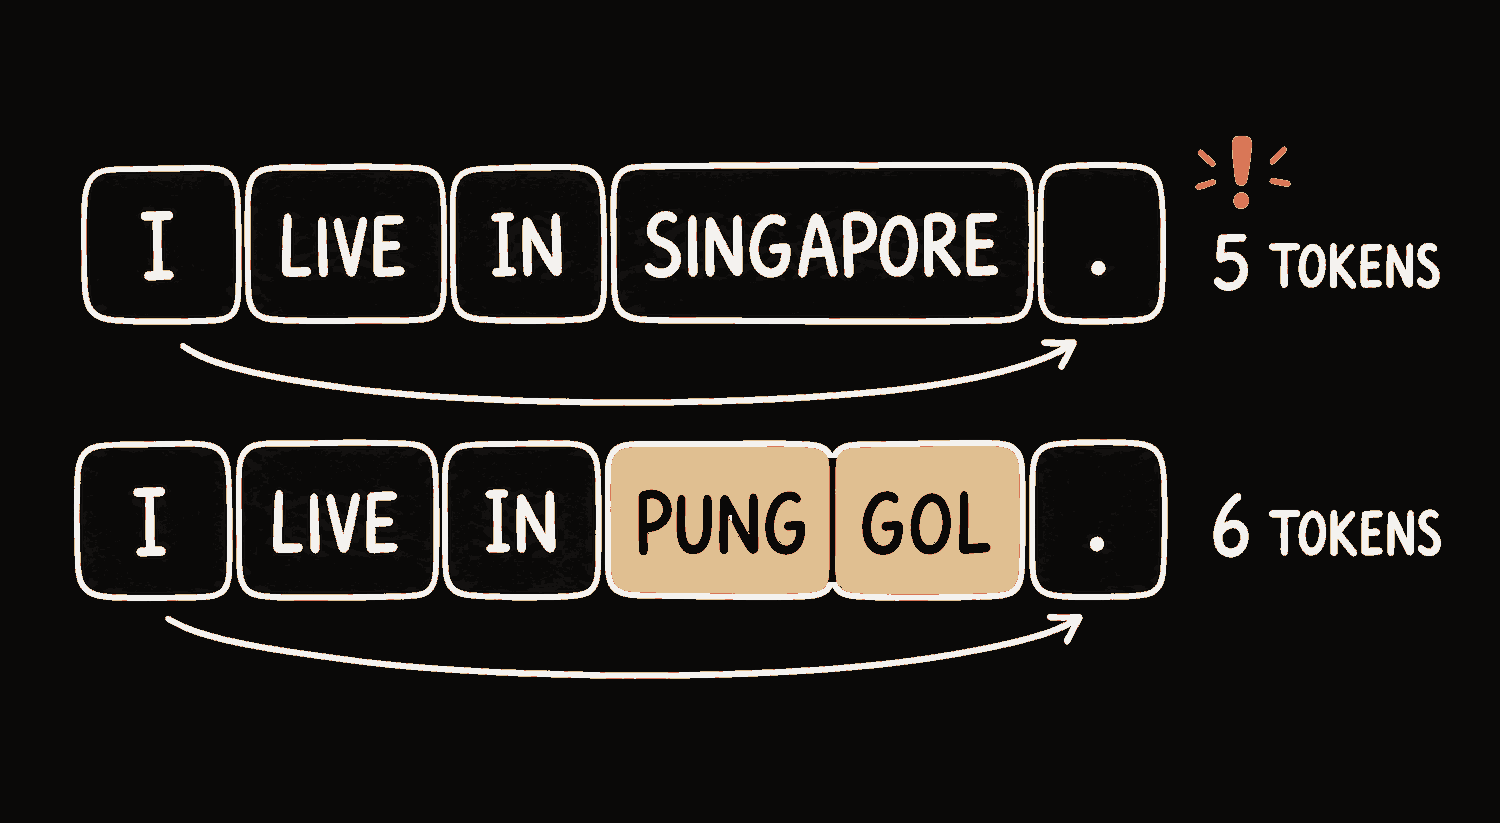
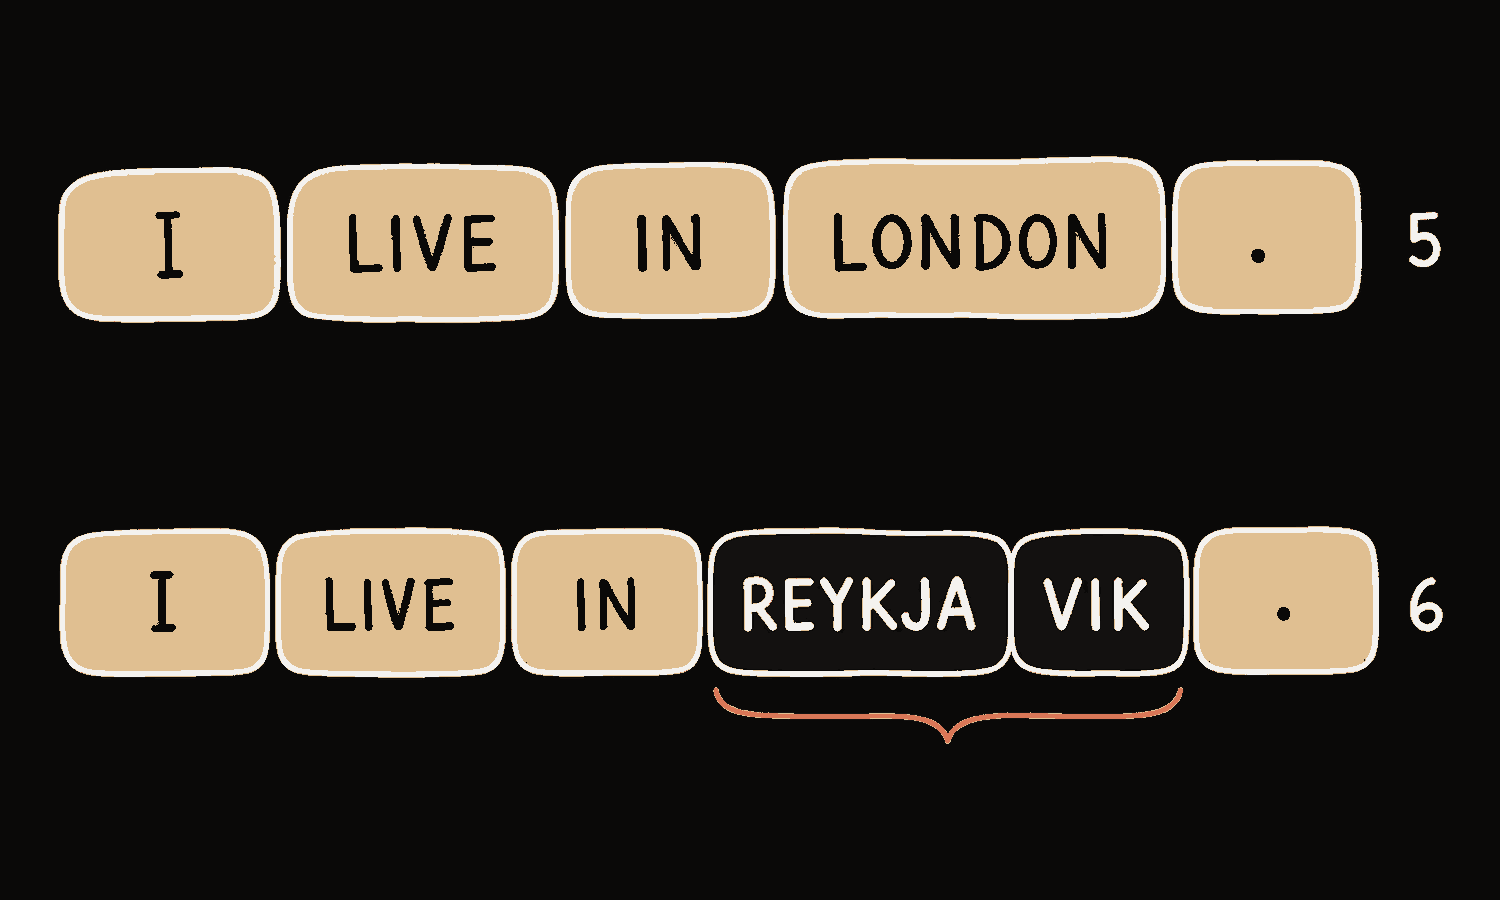
Take the last Singapore references out of the demo and the art
The course prose was delocalised in the previous commit, but three things
outside it still assumed a Singaporean reader. The context-window demo in
101.js ran a whole scripted conversation about urban farming in Singapore,
naming Citiponics, Ang Mo Kio and HDB estates; it now discusses rooftop farms
in dense cities, which teaches the same lesson about old turns falling out of
the window. The Higgsfield entry asked for a picture of a hawker centre; it
asks for a night market instead.

The token diagram was the only place where copy could not fix the problem,
because the words were drawn into the picture: it showed "I live in Singapore"
splitting into five chips against "Punggol" splitting into six. It is redrawn
for London and Reykjavik, which keeps the mechanism intact, since the point
needs one familiar word that survives whole and one rarer word that gets
chopped. Regenerated through the documented pipeline and recoloured for both
themes.

It shipped misshapen at 1500x702, a ratio of 2.14 against a set median of 1.67,
which made it the widest figure in the course and left it reading as a stubby
strip beside its neighbours. The bounding-box crop had taken the linen margin
the style asks for, so the margin is padded back in each theme's own ground
colour. Same drawing, correct proportions, and the declared height in the
markup now matches the file.

Changed region(s): [[0.0307, 0.1519, 0.9813, 0.8505], [0.184, 0.4557, 0.3373, 0.486], [0.1227, 0.4253, 0.184, 0.4557]]

diff --git a/tools/higgsfield-cli.html b/tools/higgsfield-cli.html
@@ -3,7 +3,7 @@
 <head>
   <meta charset="utf-8">
   <meta name="viewport" content="width=device-width, initial-scale=1">
-  <title>Higgsfield CLI — Makes images and videos from a line you type</title>
+  <title>Higgsfield CLI: Makes images and videos from a line you type</title>
   <meta name="description" content="Makes images and videos from a line you type. Describe the picture or the clip you want and it arrives as a file on your computer, with no website or…">
   <link rel="canonical" href="https://xaviertingai.com/tools/higgsfield-cli.html">
   <meta name="author" content="Xavier Ting">
@@ -13,7 +13,7 @@
   <meta property="article:author" content="https://xaviertingai.com/curator.html">
   <meta property="article:section" content="Design">
   <meta property="og:site_name" content="AI Resources">
-  <meta property="og:title" content="Higgsfield CLI — Makes images and videos from a line you type">
+  <meta property="og:title" content="Higgsfield CLI: Makes images and videos from a line you type">
   <meta property="og:description" content="Makes images and videos from a line you type. Describe the picture or the clip you want and it arrives as a file on your computer, with no website or…">
   <meta property="og:url" content="https://xaviertingai.com/tools/higgsfield-cli.html">
   <meta property="og:image" content="https://xaviertingai.com/og-image.png">
@@ -162,7 +162,7 @@
       "@type": "WebPage",
       "@id": "https://xaviertingai.com/tools/higgsfield-cli.html#page",
       "url": "https://xaviertingai.com/tools/higgsfield-cli.html",
-      "name": "Higgsfield CLI — Makes images and videos from a line you type",
+      "name": "Higgsfield CLI: Makes images and videos from a line you type",
       "description": "Makes images and videos from a line you type. Describe the picture or the clip you want and it arrives as a file on your computer, with no website or…",
       "isPartOf": {
         "@id": "https://xaviertingai.com/#website"
@@ -226,7 +226,7 @@
       "name": "How do you install and use Higgsfield CLI?",
       "acceptedAnswer": {
         "@type": "Answer",
-        "text": "Install Node.js first if you do not have it: download the installer from nodejs.org and run it like any other app. Then open the Terminal app, the window where you type commands (on a Mac, hold Command and press the space bar, type Terminal, then press Enter). Paste the line below and press Enter. It fetches the tool from npm, the software library that arrives with Node.js, and the -g means install it for the whole computer rather than one folder. Run higgsfield auth login. It opens your browser so you can sign in, then hands a pass back to the terminal. That pass is short lived, so expect to sign in again on another day. Run higgsfield account next and read your credit balance before you spend any of it. Run npx skills add higgsfield-ai/skills. The npx part comes with Node.js and runs a helper once without installing it, and skills are written instructions that teach your coding assistant these commands. Then ask that assistant for one picture in plain words, for example: use Higgsfield to make a wide header image of a hawker centre at night. Look at what comes back before you ask for anything more, and approve requests one at a time rather than twenty at once, because each one spends real credits. Command: npm install -g @higgsfield/cli"
+        "text": "Install Node.js first if you do not have it: download the installer from nodejs.org and run it like any other app. Then open the Terminal app, the window where you type commands (on a Mac, hold Command and press the space bar, type Terminal, then press Enter). Paste the line below and press Enter. It fetches the tool from npm, the software library that arrives with Node.js, and the -g means install it for the whole computer rather than one folder. Run higgsfield auth login. It opens your browser so you can sign in, then hands a pass back to the terminal. That pass is short lived, so expect to sign in again on another day. Run higgsfield account next and read your credit balance before you spend any of it. Run npx skills add higgsfield-ai/skills. The npx part comes with Node.js and runs a helper once without installing it, and skills are written instructions that teach your coding assistant these commands. Then ask that assistant for one picture in plain words, for example: use Higgsfield to make a wide header image of a night market. Look at what comes back before you ask for anything more, and approve requests one at a time rather than twenty at once, because each one spends real credits. Command: npm install -g @higgsfield/cli"
       }
     }
   ]
@@ -245,7 +245,7 @@ try{if(localStorage.getItem("theme")==="dark")document.documentElement.setAttrib
   <div class="page">
 
     <header class="site-head">
-      <a class="brand" href="../index.html" aria-label="Xavier Ting — home">
+      <a class="brand" href="../index.html" aria-label="Xavier Ting, home">
         <span class="brand-mark">Xavier Ting</span>
         <span class="brand-sub m">AI for the rest of us</span>
       </a>
@@ -293,7 +293,7 @@ try{if(localStorage.getItem("theme")==="dark")document.documentElement.setAttrib
             <ol>
             <li>Install Node.js first if you do not have it: download the installer from nodejs.org and run it like any other app. Then open the Terminal app, the window where you type commands (on a Mac, hold Command and press the space bar, type Terminal, then press Enter). Paste the line below and press Enter. It fetches the tool from npm, the software library that arrives with Node.js, and the -g means install it for the whole computer rather than one folder.</li>
             <li>Run higgsfield auth login. It opens your browser so you can sign in, then hands a pass back to the terminal. That pass is short lived, so expect to sign in again on another day. Run higgsfield account next and read your credit balance before you spend any of it.</li>
-            <li>Run npx <a href="../ai-101.html#e-skills">skills</a> add higgsfield-ai/skills. The npx part comes with Node.js and runs a helper once without installing it, and skills are written instructions that teach your coding assistant these commands. Then ask that assistant for one picture in plain words, for example: use Higgsfield to make a wide header image of a hawker centre at night. Look at what comes back before you ask for anything more, and approve requests one at a time rather than twenty at once, because each one spends real credits.</li>
+            <li>Run npx <a href="../ai-101.html#e-skills">skills</a> add higgsfield-ai/skills. The npx part comes with Node.js and runs a helper once without installing it, and skills are written instructions that teach your coding assistant these commands. Then ask that assistant for one picture in plain words, for example: use Higgsfield to make a wide header image of a night market. Look at what comes back before you ask for anything more, and approve requests one at a time rather than twenty at once, because each one spends real credits.</li>
             </ol>
           <div class="specimen">
             <span class="specimen-where m">Paste into the <a href="../ai-101.html#e-terminal">Terminal app</a></span>

diff --git a/tools.js b/tools.js
@@ -698,7 +698,7 @@ const TOOLS = [
     how: [
       "Install Node.js first if you do not have it: download the installer from nodejs.org and run it like any other app. Then open the Terminal app, the window where you type commands (on a Mac, hold Command and press the space bar, type Terminal, then press Enter). Paste the line below and press Enter. It fetches the tool from npm, the software library that arrives with Node.js, and the -g means install it for the whole computer rather than one folder.",
       "Run higgsfield auth login. It opens your browser so you can sign in, then hands a pass back to the terminal. That pass is short lived, so expect to sign in again on another day. Run higgsfield account next and read your credit balance before you spend any of it.",
-      "Run npx skills add higgsfield-ai/skills. The npx part comes with Node.js and runs a helper once without installing it, and skills are written instructions that teach your coding assistant these commands. Then ask that assistant for one picture in plain words, for example: use Higgsfield to make a wide header image of a hawker centre at night. Look at what comes back before you ask for anything more, and approve requests one at a time rather than twenty at once, because each one spends real credits."
+      "Run npx skills add higgsfield-ai/skills. The npx part comes with Node.js and runs a helper once without installing it, and skills are written instructions that teach your coding assistant these commands. Then ask that assistant for one picture in plain words, for example: use Higgsfield to make a wide header image of a night market. Look at what comes back before you ask for anything more, and approve requests one at a time rather than twenty at once, because each one spends real credits."
     ],
     command: "npm install -g @higgsfield/cli",
     commandTarget: "terminal",

diff --git a/101.js b/101.js
@@ -164,14 +164,14 @@
   var HOLDS = 6; // bubbles the window holds; older ones grey out
   var turns = 0;
   var SCRIPT = [
-    { u: "Group project on urban farming in Singapore. Help me plan it.",
+    { u: "Group project on rooftop farming in cities. Help me plan it.",
       a: "Sure. Three parts: research, a field visit, and the slides. Which one is due first?" },
     { u: "Research first. And we dropped the survey, the team voted it out.",
-      a: "Noted, no survey. Two local case studies instead: Citiponics in Ang Mo Kio and Edible Garden City." },
+      a: "Noted, no survey. Two case studies instead: a rooftop farm on a car park deck and one on a supermarket roof." },
     { u: "Write the intro paragraph.",
-      a: "Singapore imports most of what it eats. Urban farms are one answer, and two of them sit inside ordinary HDB estates." },
+      a: "Dense cities import most of what they eat. Rooftop farms are one answer, and some of them sit on ordinary housing blocks." },
     { u: "Now the field visit plan.",
-      a: "Book Citiponics for a weekday morning. Prepare five questions, bring a phone for photos, and put one person on notes so nothing gets lost." },
+      a: "Book the car park farm for a weekday morning. Prepare five questions, bring a phone for photos, and put one person on notes so nothing gets lost." },
     { u: "Tidy up the timeline.",
       a: "A clear timeline helps a lot. Set milestones, check in with each other regularly, and leave buffer time before the deadline." },
     { u: "What is left to do?",
